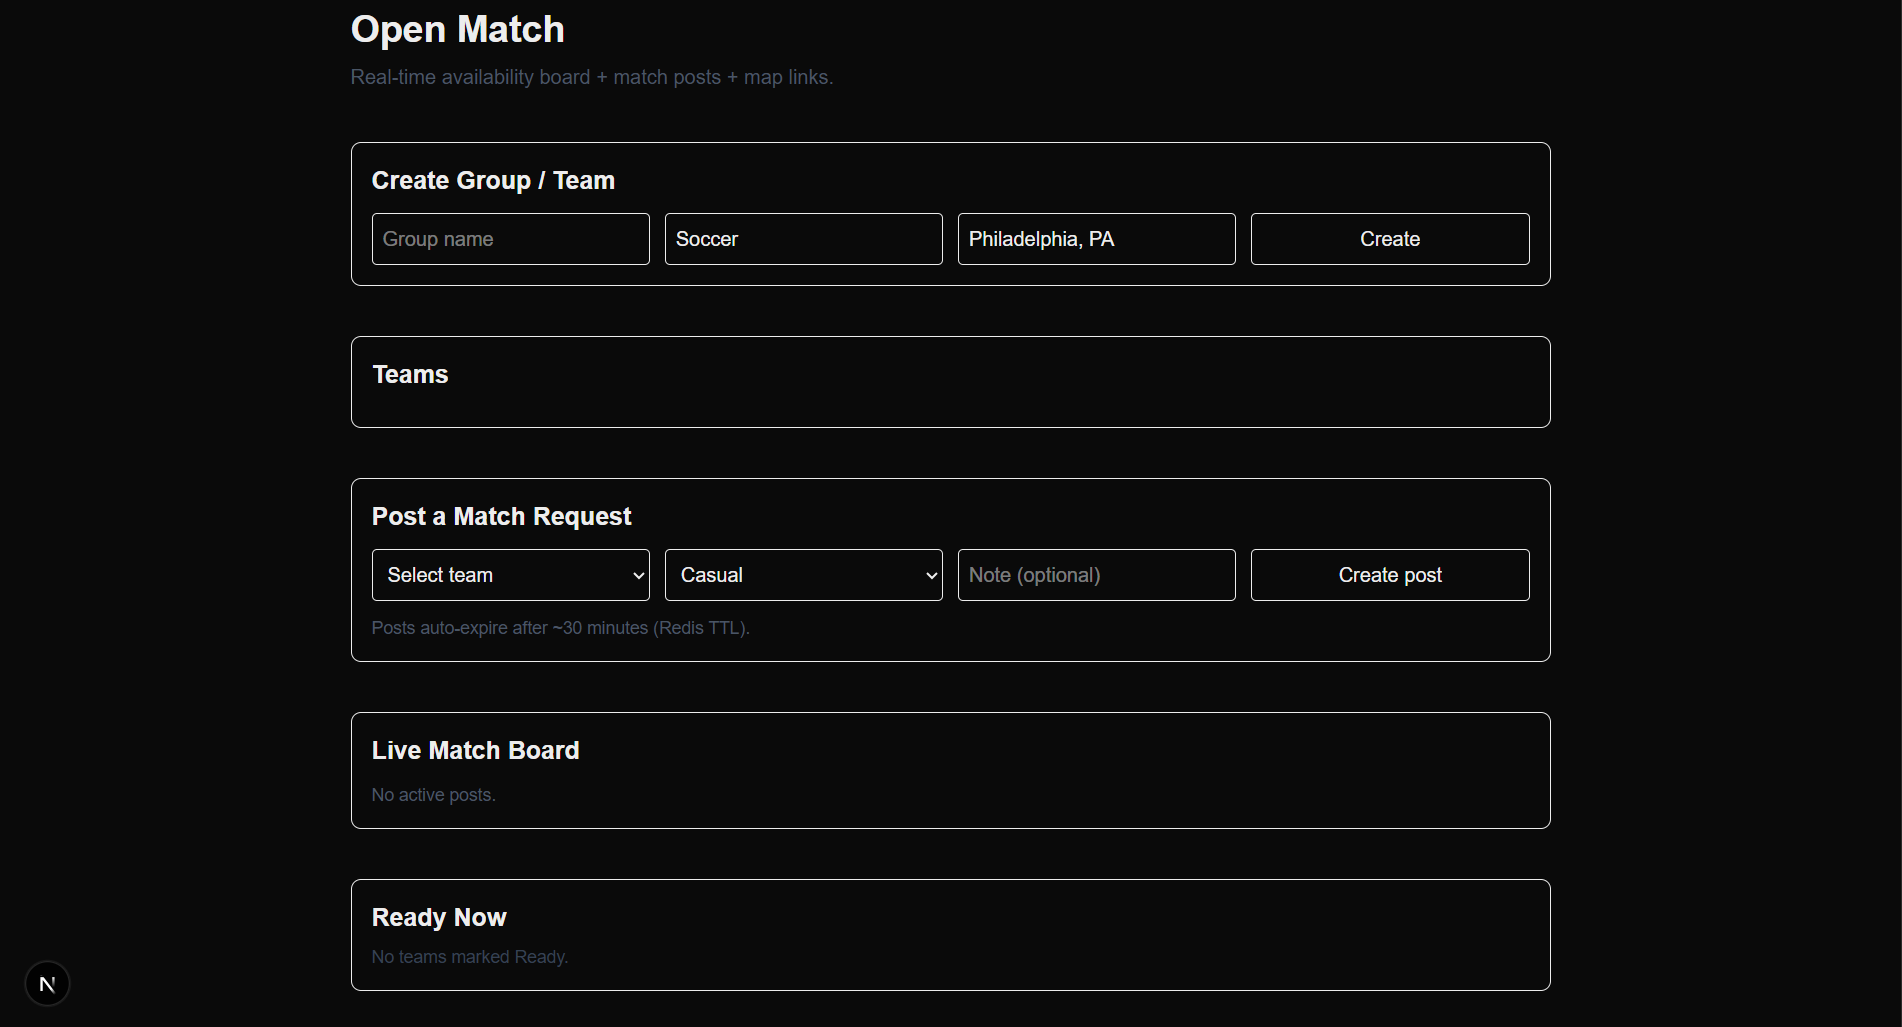
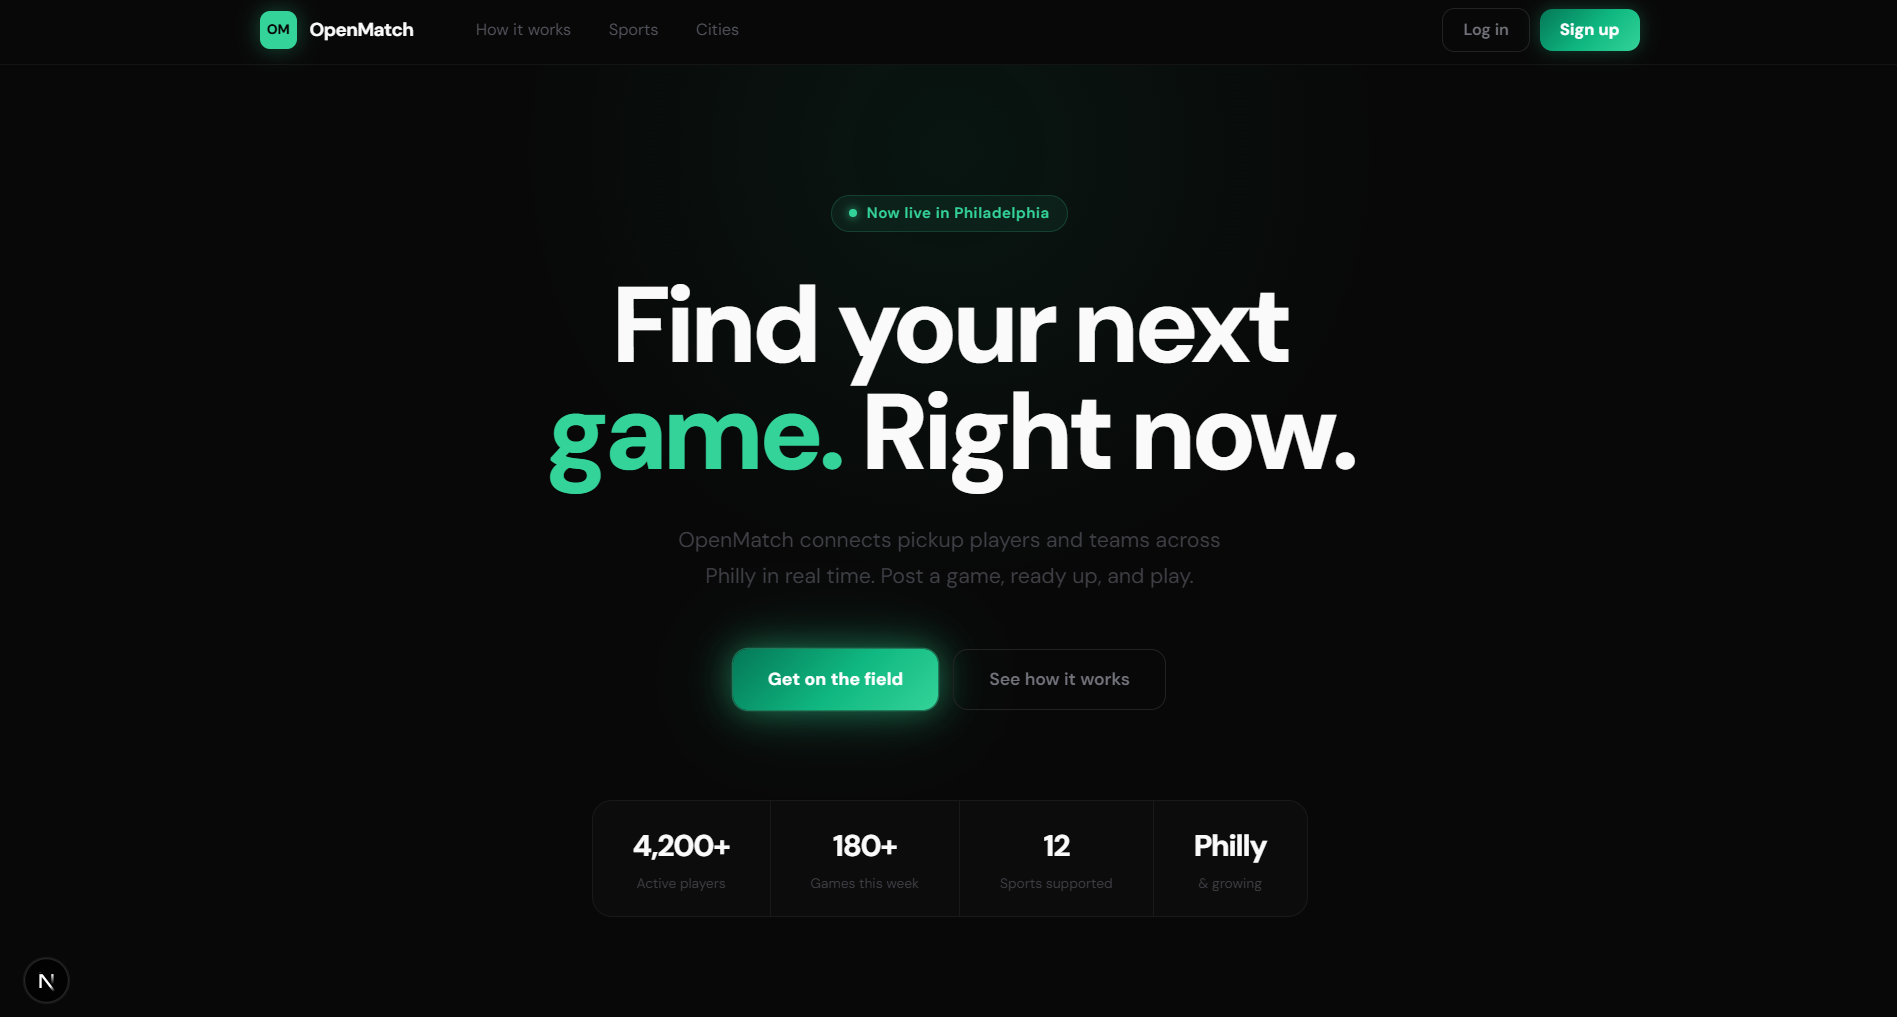
release 3 README

diff --git a/README.md b/README.md
@@ -14,6 +14,7 @@ match is accepted, participants are shown the selected field location and can co
 details using external communication.
 
 ![This is a screenshot.](POC_Image.png) 
+![This is a screenshot.](POC_Image2.png)
 
 # How to run
 
@@ -42,6 +43,8 @@ DATABASE_URL=postgresql+psycopg2://openmatch:openmatch@localhost:5432/openmatch
 REDIS_URL=redis://localhost:6379/0
 FRONTEND_URL=http://localhost:3000
 SECRET_KEY=SECRET_KEY_GOES_HERE
+
+** FOR DEVELOPEMENT THIS IS UNEEDED, IT WILL PRINT VERIFICATION TO CONSOLE **
 MAIL_USERNAME=EMAIL_USERNAME_GOES_HERE
 MAIL_PASSWORD=EMAIL_PASSWORD_GOES_HERE
 ```
